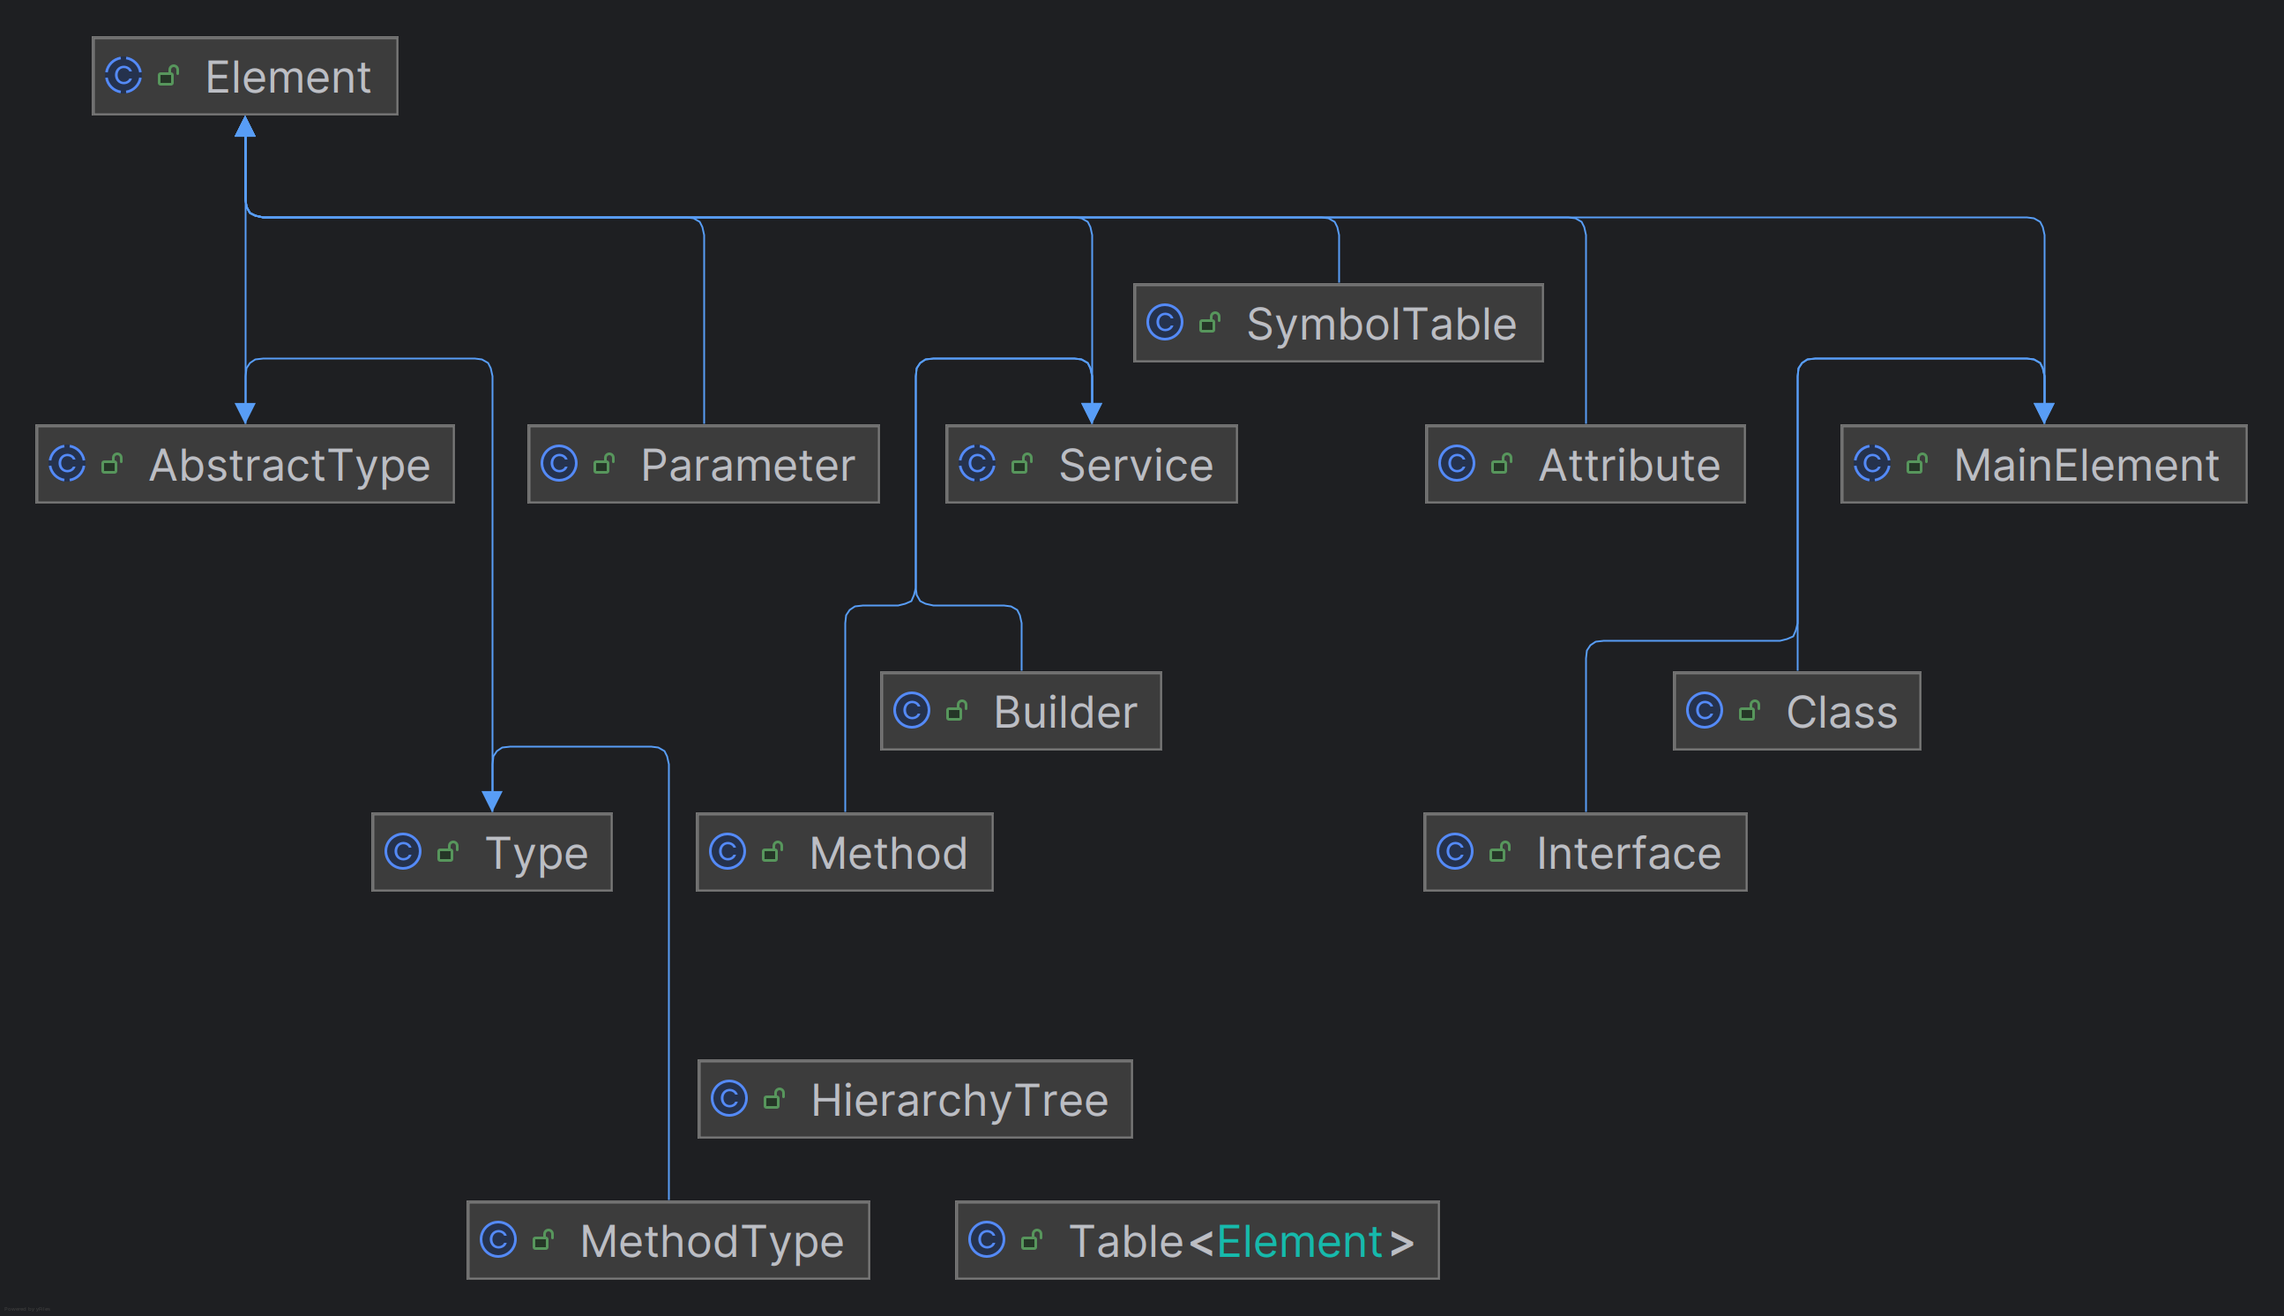
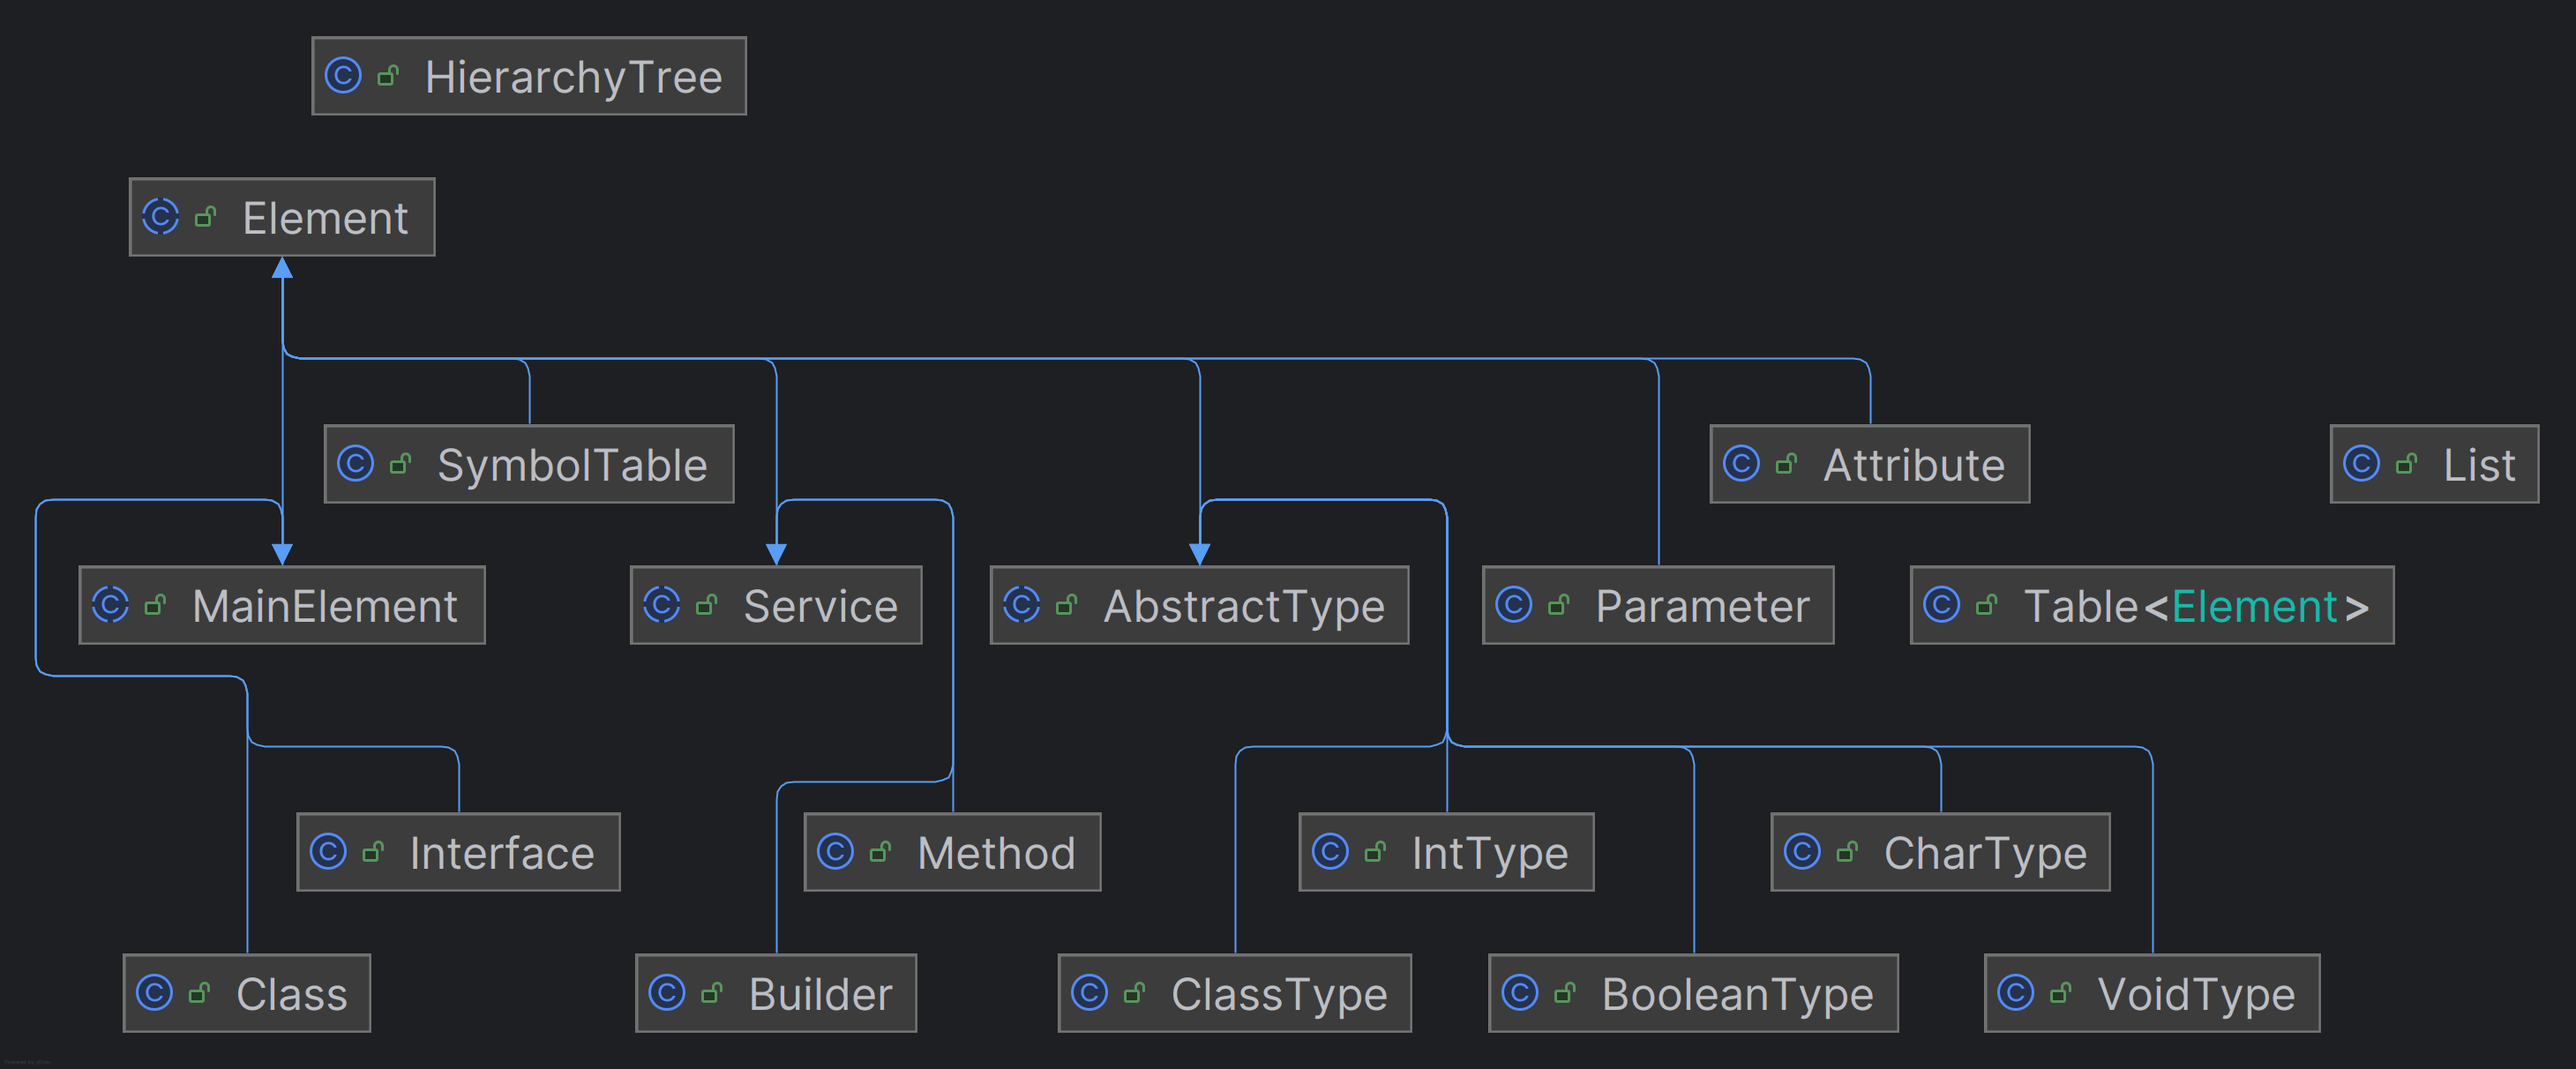
genericidad controlada

diff --git a/src/main/MainSintactico.java b/src/main/MainSintactico.java
@@ -1,0 +1,105 @@
+package main;
+
+import lexicalAnalyzer.LexicalAnalyzer;
+import model.symbolTable.Class;
+import model.symbolTable.SymbolTable;
+import sourceManager.*;
+import model.Token;
+import model.TokenType;
+import model.symbolTable.*;
+import syntacticAnalyzer.SyntacticAnalyzer;
+import utils.exceptions.LexicalException;
+import utils.exceptions.SemanticException;
+import utils.messages.GenericErrorMessage;
+import utils.messages.LexicalConsoleMessage;
+
+import java.io.FileNotFoundException;
+import java.io.IOException;
+
+public class MainSintactico {
+    private static SourceManager sourceManager;
+    private static LexicalAnalyzer lexicalAnalyzer;
+    private static SyntacticAnalyzer syntacticAnalyzer;
+    private static final SymbolTable symbolTable = SymbolTable.symbolTable();
+
+    public static void main(String[] args) {
+        initialize();
+
+        if (args.length == 1) {
+            String fileName = args[0];
+            openFile(fileName);
+            //lexicalAnalysis();
+            syntacticAnalysis();
+            closeFile();
+        }
+        else {
+            System.out.println(GenericErrorMessage.MISUSE_ERROR);
+        }
+    }
+
+    public static void initialize(){
+        sourceManager = new SourceManagerImplEficiente();
+        lexicalAnalyzer = new LexicalAnalyzer();
+        symbolTable.reset();
+    }
+    private static void openFile (String fileName) {
+        try {
+            sourceManager.open(fileName);
+        }
+        catch (FileNotFoundException e) {
+            System.out.println(GenericErrorMessage.FILE_NOT_FOUND_ERROR);
+        }
+    }
+
+    private static void closeFile() {
+        try {
+            sourceManager.close();
+        }
+        catch (IOException e) {
+            System.out.println(GenericErrorMessage.FILE_READ_ERROR);
+        }
+    }
+
+    private static void lexicalAnalysis() {
+        Token token = null;
+        lexicalAnalyzer.init(sourceManager);
+
+        LexicalConsoleMessage lexicalConsoleMessage = new LexicalConsoleMessage();
+        do  {
+            try {
+                token = lexicalAnalyzer.nextToken();
+                lexicalConsoleMessage.appendSuccessMessage(token.format());
+            }
+            catch (LexicalException e) {
+                lexicalConsoleMessage.appendErrorMessage(e.getMessage());
+            }
+        }
+        while (token == null || (token != null && token.getTokenType() != TokenType.END_OF_FILE));
+
+        System.out.println(lexicalConsoleMessage.getSuccessMessage());
+        System.out.println(lexicalConsoleMessage.getErrorMessage());
+    }
+
+    private static void syntacticAnalysis() {
+        try {
+            lexicalAnalyzer.init(sourceManager);
+            syntacticAnalyzer = new SyntacticAnalyzer(lexicalAnalyzer);
+        }
+        catch (Exception e) {
+            System.out.println(e.getMessage());
+        }
+    }
+
+    private static void semanticAnalysis() {
+        try {
+            symbolTable.correctDeclaration();
+            symbolTable.consolidate();
+            //System.out.println(symbolTable);
+
+            System.out.println("[SinErrores]");
+        }
+        catch (SemanticException e) {
+            System.out.println(e.getMessage());
+        }
+    }
+}

diff --git a/src/model/symbolTable/Class.java b/src/model/symbolTable/Class.java
@@ -9,8 +9,10 @@ import static model.symbolTable.SymbolTable.symbolTable;
 
 public class Class extends MainElement {
     private List builderTable;
-    public Class(Token m, Token n, AbstractType t, Token i) {
-        super(m, n, t, i);
+    private Class parentClass;
+    public Class(Token m, Token n, AbstractType t, Class i) {
+        super(m, n, t, (i != null ? i.getName() : null));
+        parentClass = i;
         builderTable = new List();
     }
 
@@ -39,6 +41,7 @@ public class Class extends MainElement {
 
     @Override
     public void correctDeclaration() throws SemanticException {
+        super.correctDeclaration();
         String parentLexeme = inheritance != null ? inheritance.getLexeme() : null;
         if(inheritance != null && !symbolTable().getClasses().contains(parentLexeme)) {
             throw new SemanticException(SemanticErrorMessage.parentDoesNotExist(inheritance));
@@ -49,7 +52,7 @@ public class Class extends MainElement {
         else if (inheritance != null && symbolTable().getClassHierarchy().isAncestor(name.getLexeme(), parentLexeme)) {
             throw new SemanticException(SemanticErrorMessage.circularHierarchy(inheritance));
         }
-        if(inheritance !=null){
+        if(inheritance != null){
             Token tParent = symbolTable().getClasses().getTokenByName(parentLexeme);
             Class cParent = symbolTable().getClasses().get(tParent);
             if(cParent.isFinal()) {
@@ -63,7 +66,8 @@ public class Class extends MainElement {
             }
         }
         for (Attribute a : attributes.values())
-            a.correctDeclaration();
+            if(parametricType != null && !a.getType().equals(parametricType))
+                a.correctDeclaration();
         for (Method m : methods.values()) {
             m.correctDeclaration();
             if(modifier != null && m.getModifier() != null &&
@@ -96,6 +100,17 @@ public class Class extends MainElement {
             String parentLexeme = inheritance.getLexeme();
             Token tParent = symbolTable().getClasses().getTokenByName(parentLexeme);
             Class cParent = symbolTable().getClasses().get(tParent);
+            if(cParent.getParametricType() != null && parametricType == null)
+            {
+                throw new SemanticException(SemanticErrorMessage.parametricInheritanceMismatch(name));
+            }
+            else if (cParent.getParametricType() != null && parametricType != null &&
+                    parentClass.getParametricType() != null && !parentClass.getParametricType().getName().getLexeme().equals(parametricType.getName().getLexeme())) {
+                throw new SemanticException(SemanticErrorMessage.parametricInheritanceMismatch(parametricType.getName()));
+            }
+            else if ((parentClass.getParametricType() != null && cParent.getParametricType() == null) || (parentClass.getParametricType() == null && cParent.getParametricType() != null))
+                throw new SemanticException(SemanticErrorMessage.parametricInheritanceMismatch(parentClass.getName()));
+
             Table<Method> parentMethods = cParent.getMethods();
             Table<Attribute> parentAttributes = cParent.getAttributes();
             for(Method m : methods.values()){

diff --git a/src/syntacticAnalyzer/SyntacticAnalyzer.java b/src/syntacticAnalyzer/SyntacticAnalyzer.java
@@ -62,7 +62,8 @@ public class SyntacticAnalyzer {
 
     private void _interface() throws Exception {
         Interface toReturn;
-        Token modifier, name, parent;
+        Token modifier, name;
+        Class parent;
         AbstractType parametricType;
 
         modifier = modificadorOpcional();
@@ -72,10 +73,10 @@ public class SyntacticAnalyzer {
         parametricType = _tipoParametricoOpcional();
         parent = _optionalParent();
 
-        if(parent.getLexeme().equals("Object"))
+        if(parent.getName().getLexeme().equals("Object"))
             parent = null; // Las interfaces no extienden de Object
 
-        toReturn = new Interface(modifier, name, parametricType, parent);
+        toReturn = new Interface(modifier, name, parametricType, parent.getName());
         symbolTable.addInterface(toReturn.getName(), toReturn);
         symbolTable.setCurrentClass(toReturn);
 
@@ -117,7 +118,8 @@ public class SyntacticAnalyzer {
 
     private void clase() throws Exception {
         Class newClass;
-        Token modifier, name, parent;
+        Token modifier, name;
+        Class parent;
         AbstractType parametricType;
 
         modifier = modificadorOpcional();
@@ -136,16 +138,16 @@ public class SyntacticAnalyzer {
         match(closeBracket);
     }
 
-    private Token _optionalParent() throws Exception {
+    private Class _optionalParent() throws Exception {
         TokenType currentTokenType = getCurrentTokenType();
-        Token toReturn;
+        Class toReturn;
         if (firsts.containsToken(HerenciaOpcional, currentTokenType)) {
             toReturn = herenciaOpcional();
         }
         else if (firsts.containsToken(_InterfaceOpcional, currentTokenType)) {
             toReturn = _interfaceOpcional();
         }
-        else { toReturn = new Token(null, "Object", -1); }
+        else { toReturn = symbolTable.getObjectClass(); }
         return toReturn;
     }
 
@@ -173,25 +175,26 @@ public class SyntacticAnalyzer {
         return toReturn;
     }
 
-    private Token herenciaOpcional() throws Exception {
+    private Class herenciaOpcional() throws Exception {
         TokenType currentTokenType = getCurrentTokenType();
-        Token toReturn;
+        Class toReturn;
         if (firsts.containsToken(HerenciaOpcional, currentTokenType)) {
             match(reservedExtends);
-            toReturn = currentToken;
+            toReturn = new Class(null, currentToken, null, null);
             match(idClase);
-            _tipoParametricoOpcional();
+            AbstractType parentType = _tipoParametricoOpcional();
+            toReturn.setParametricType(parentType);
         }
         else { toReturn = null; }
         return toReturn;
     }
 
-    private Token _interfaceOpcional() throws Exception {
+    private Class _interfaceOpcional() throws Exception {
         TokenType currentTokenType = getCurrentTokenType();
-        Token toReturn = null;
+        Class toReturn = null;
         if (firsts.containsToken(_InterfaceOpcional, currentTokenType)) {
             match(reservedImplements);
-            toReturn = currentToken;
+            //toReturn = currentToken;
             match(idClase);
             _tipoParametricoOpcional();
         }

diff --git a/src/model/symbolTable/SymbolTable.java b/src/model/symbolTable/SymbolTable.java
@@ -15,6 +15,7 @@ public class SymbolTable extends Element {
     private MainElement currentClass;
     private Service currentService;
     private HierarchyTree classHierarchy;
+    private Class objectClass;
 
     private SymbolTable() {
         reset();
@@ -97,6 +98,7 @@ public class SymbolTable extends Element {
     private void createObject() {
         Token tk = new Token(null, "Object", -1);
         Class c = new Class(null, tk, null, null);
+        objectClass = c;
         classes.put(tk, c);
         classHierarchy = new HierarchyTree(tk.getLexeme());
 
@@ -121,7 +123,7 @@ public class SymbolTable extends Element {
         Token t = new Token(null, "String", -1);
 
         Token tParent = classes.getTokenByName("Object");
-        Class c = new Class(null, t, null, tParent);
+        Class c = new Class(null, t, null, objectClass);
         classes.put(t, c);
         classHierarchy.search(tParent.getLexeme()).addDescendant(new HierarchyTree(t.getLexeme()));
     }
@@ -130,7 +132,7 @@ public class SymbolTable extends Element {
         Token t = new Token(null, "System", -1);
 
         Token tParent = classes.getTokenByName("Object");
-        Class c = new Class(null, t, null, tParent);
+        Class c = new Class(null, t, null, objectClass);
 
         classes.put(t, c);
         classHierarchy.search(tParent.getLexeme()).addDescendant(new HierarchyTree(t.getLexeme()));
@@ -254,4 +256,5 @@ public class SymbolTable extends Element {
     }
 
     public HierarchyTree getClassHierarchy() { return classHierarchy; }
+    public Class getObjectClass () { return objectClass; }
 }

diff --git a/resources/sinErrores/11-GenericidadControlada.java b/resources/sinErrores/11-GenericidadControlada.java
@@ -1,0 +1,36 @@
+///[SinErrores]
+
+// 1. Basic generic class declaration
+class Box<T> {
+    private T content;
+}
+
+// 2. Inheriting with explicit type parameter
+class StringBox<String> extends Box<String> {
+    // Type parameter specified
+}
+
+// 3. Inheriting with own type parameter
+class Container<E> extends Box<E> {
+    // Type parameter passed through
+}
+
+// 4. Multiple type parameters
+class Pair<K> {
+    private K key;
+}
+
+// 5. Inheriting from multiple-parameter generic
+class StringIntPair<String> extends Pair<String> {
+    // Both type parameters specified
+}
+
+// 6. Generic class with bounded type
+class NumberBox<T> {
+    private T value;
+}
+
+// 7. Inheriting with bounded type specified
+class IntegerBox<Integer> extends NumberBox<Integer> {
+    // Concrete type within bounds
+}

diff --git a/src/model/symbolTable/MainElement.java b/src/model/symbolTable/MainElement.java
@@ -55,6 +55,13 @@ public abstract class MainElement extends Element {
         return inheritance;
     }
 
+    public AbstractType getParametricType() {
+        return parametricType;
+    }
+    public void setParametricType(AbstractType parametricType) {
+        this.parametricType = parametricType;
+    }
+
     public String toString() {
         String mod = (modifier != null) ? modifier.getLexeme() + " " : "";
         String inh = (inheritance != null) ? " extends " + inheritance.getLexeme() : "";
@@ -79,5 +86,9 @@ public abstract class MainElement extends Element {
                 }
             }
         }
+    }
+
+    public void correctDeclaration () throws SemanticException {
+
     }
 }

diff --git a/src/utils/messages/SemanticErrorMessage.java b/src/utils/messages/SemanticErrorMessage.java
@@ -116,4 +116,12 @@ public class SemanticErrorMessage {
     public static String cannotExtendFromStaticClass(Token name) {
         return basicErrorInit(name) + ": Cannot extend from static class " + name.getLexeme() + " \n" + basicErrorEnd(name);
     }
+
+    public static String parametricTypeMustBeClass(Token name) {
+        return basicErrorInit(name) + ": Parametric type " + name.getLexeme() + " must be a user-defined class \n" + basicErrorEnd(name);
+    }
+
+    public static String parametricInheritanceMismatch(Token name) {
+        return basicErrorInit(name) + ": Parent " + name.getLexeme() + " is parametric but child doesn't have the same parametric type \n" + basicErrorEnd(name);
+    }
 }

diff --git a/src/model/symbolTable/AbstractType.java b/src/model/symbolTable/AbstractType.java
@@ -11,7 +11,7 @@ public abstract class AbstractType extends Element {
     }
 
     public void correctDeclaration() throws SemanticException {
-        if(name.getTokenType().equals(TokenType.idClase) && !SymbolTable.symbolTable().getClasses().contains(name.getLexeme()))
+        if(name.getTokenType().equals(TokenType.idClase) && (!SymbolTable.symbolTable().getClasses().contains(name.getLexeme()) && !SymbolTable.symbolTable().getInterfaces().contains(name.getLexeme())))
             throw new SemanticException(SemanticErrorMessage.undeclaredType(name));
     }
 

diff --git a/resources/conErrores/13-GenericidadControlada.java b/resources/conErrores/13-GenericidadControlada.java
@@ -1,0 +1,6 @@
+///[Error:B|6]
+
+class T {}
+
+class A<T> {}
+class B extends A{}

diff --git a/resources/conErrores/14-GenericidadControlada.java b/resources/conErrores/14-GenericidadControlada.java
@@ -1,0 +1,4 @@
+///[Error:K|4]
+
+class A<T> {}
+class B<K> extends A{}

diff --git a/resources/conErrores/15-GenericidadControlada.java b/resources/conErrores/15-GenericidadControlada.java
@@ -1,0 +1,4 @@
+///[Error:A|4]
+
+class A<K> {}
+class B<K> extends A{}

diff --git a/resources/conErrores/16-GenericidadControlada.java b/resources/conErrores/16-GenericidadControlada.java
@@ -1,0 +1,3 @@
+///[Error:<|3]
+
+class A<T<K>>{}
